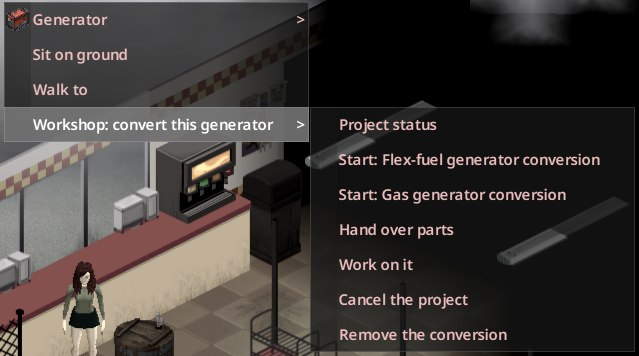
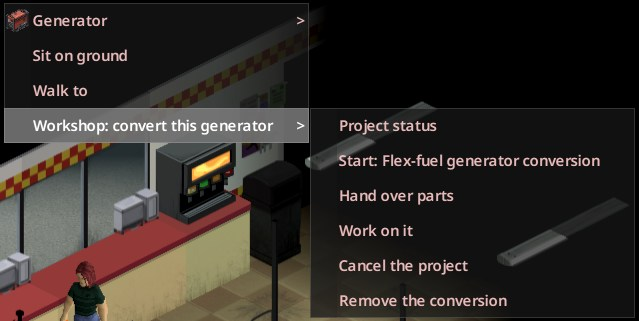
fix: the Workshop menu offers no gas generator conversion, which has nothing to run on until 0.5.0 (0.4.2, not released; launch 343)
Since 0.1.0 a generator's Workshop menu listed every conversion of the
domain, Start: Gas generator conversion included (the player guide's own
picture showed it). Finished, it leaves a generator whose profile takes
gas only, and no gas feed exists until 0.5.0 (D-040): read from the
code, not tried in game. The owner chose to hide it in a 0.4.2.

ConversionDevices.offered: a conversion whose engine burns gas from an
outside vessel (fuelStorageChanges.external) is not offered. The menu
skips its Start entry, and conversion.begin refuses it (not_offered,
English and Italian text) before anything else, for a request that names
it anyway. A project already begun can still be cancelled or removed,
and one already finished stays unusable until Remove the conversion; the
player guide says how to get out of either.

Offline: the generator's Start entries read the flex conversion only
(test_clicked), offered() for each conversion and the handler's refusal
(test_conversion_devices); 282/282, compile check 135/0, translations
OK. In game (launch 343, docs-shots, this change in the working tree):
the Workshop submenu without the gas entry; the guide's picture is cut
again from it. The full run gains LOOP.gen_start_offers_flex_only (the
menu and a refused begin asked anyway), not run yet.

diff --git a/docs/player-guide.md b/docs/player-guide.md
@@ -872,9 +872,9 @@ only for a click on the car, or on the generator or its tile:
    has reached. When it reads **Converted and commissioned**, the engine
    is flex.
 
-![A generator's menu with Workshop: convert this generator open: Project status, Start: Flex-fuel generator conversion, Start: Gas generator conversion, Hand over parts, Work on it, Cancel the project, Remove the conversion](images/workshop-menu.jpg)
+![A generator's menu with Workshop: convert this generator open: Project status, Start: Flex-fuel generator conversion, Hand over parts, Work on it, Cancel the project, Remove the conversion](images/workshop-menu.jpg)
 
-*A basic generator's menu; this guide covers its flex-fuel conversion.*
+*A basic generator's menu: the flex-fuel conversion is the one it offers.*
 
 ![Project status of the generator: Conversion in progress, Flex-fuel generator conversion, Stage: inspect, Engine now: stock gasoline generator](images/project-status.jpg)
 
@@ -891,6 +891,13 @@ only for a click on the car, or on the generator or its tile:
 **Remove the conversion** returns half of them from a finished one. Small
 cars, pickup trucks, step vans and the other generator models have their
 own conversions. Diesel vehicles and the Diesel Generator have none.
+
+Versions 0.1.0 to 0.4.1 also offered **Start: Gas generator conversion**,
+which leaves a generator with nothing to run on until a later version
+brings its gas. A generator converted to gas then can be given back with
+**Remove the conversion**, which returns half of its parts; a gas
+project still in progress can be ended with **Cancel the project**,
+which returns three quarters of them.
 
 **Checked in game:** a standard car and the basic generator converted
 from this menu, with the walk to the engine, the work stopping once the

diff --git a/docs/test-results.md b/docs/test-results.md
@@ -6788,3 +6788,27 @@ gasifier.
 
 Evidence:
 [run 342](evidence/2026-11-12_rt-sp_harness_run342_gas_probe.txt).
+
+## 2026-11-12 — RT-SP launch 343 (the player guide's Workshop picture for 0.4.2)
+
+Command: `tools/run-sp-harness.ps1 -Mode docs-shots` (`sp-rtds`), the
+repository's mod on 42.22.2 with the 0.4.2 change in the working tree,
+not committed: the Workshop menu offers no conversion whose engine burns
+gas from an outside vessel (`ConversionDevices.offered`). About 70
+seconds.
+
+Launch 343 (**65/0**). The generator's Workshop submenu, built by the
+game's right-click builder, read: Project status, Start: Flex-fuel
+generator conversion, Hand over parts, Work on it, Cancel the project,
+Remove the conversion. Start: Gas generator conversion, in launch 212's
+picture, was not there. `docs/images/workshop-menu.jpg` is cut again from
+this shot, at launch 212's frame (639 pixels wide from 556,37; now 321
+high, one entry less). The other pictures of this run were not used.
+
+Not run: the authority refusing a gas begin asked anyway (the full run's
+check, `LOOP.gen_start_offers_flex_only`, added for 0.4.2), the menu on a
+server, the Italian text in game.
+
+Evidence:
+[run 343](evidence/2026-11-12_rt-sp_harness_run343_docs_shots.txt);
+[the full shot](evidence/2026-11-12_run343_workshop_menu.jpg).
